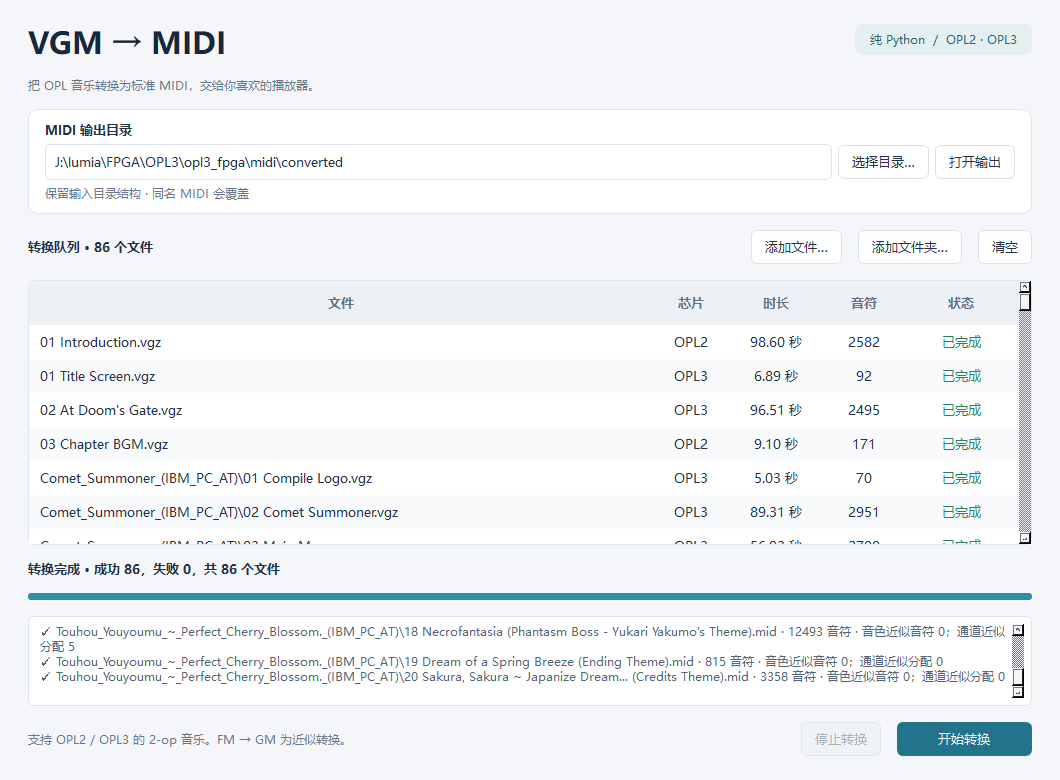
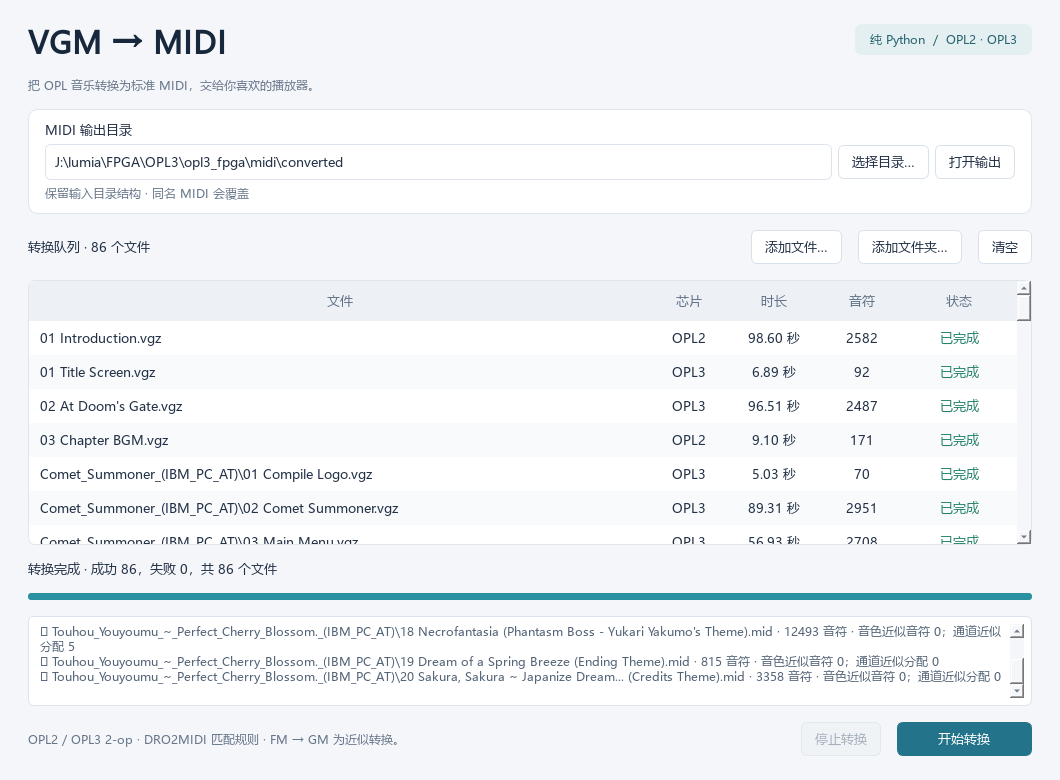
Use DRO2MIDI scoring and recover Doom instrument identities

diff --git a/tools/vgz2midi.py b/tools/vgz2midi.py
@@ -18,7 +18,6 @@ ROOT = Path(__file__).resolve().parents[1]
 SAMPLE_RATE = 44100
 MELODIC_CHANNELS = tuple(channel for channel in range(16) if channel != 9)
 OPERATOR_OFFSETS = (0, 1, 2, 8, 9, 10, 16, 17, 18)
-MULTIPLIERS = (0.5, 1, 2, 3, 4, 5, 6, 7, 8, 9, 10, 10, 12, 12, 15, 15)
 # Bass drum, snare, tom, cymbal and hi-hat in OPL rhythm mode.
 RHYTHM = ((6, 3, 35, 16), (7, 3, 38, 8), (8, 0, 45, 4),
           (8, 3, 49, 2), (7, 0, 42, 1))
@@ -51,24 +50,20 @@ def _patch_key(feedback, operators):
 # This small table is derived from the pinned, GPL-3.0-or-later libADLMIDI
 # instrument database; copyright and license are in third_party/libadlmidi.
 with Path(__file__).with_name("opl_gm_bank58.json").open(encoding="utf-8") as _file:
-    PATCHES = json.load(_file)["patches"]
+    _bank = json.load(_file)
+PATCHES = _bank["patches"]
 PATCH_KEYS = tuple(_patch_key(p["feedback"], p["operators"]) for p in PATCHES)
+SOURCE_PATCHES = {}
+for _patch in _bank["source_patches"]:
+    # Identical source patches can have several GM names; VGM loses that choice.
+    SOURCE_PATCHES.setdefault(_patch_key(_patch["feedback"], _patch["operators"]), _patch)
 
 
 def _patch_distance(a, b):
-    distance = 24 * ((a[0] ^ b[0]) & 1) + abs((a[0] >> 1) - (b[0] >> 1)) * 1.5
-    for offset in (1, 6):
-        x, y = a[offset], b[offset]
-        distance += 10 * abs(math.log2(MULTIPLIERS[x & 15] / MULTIPLIERS[y & 15]))
-        distance += 10 * bool((x ^ y) & 32) + 3 * bool((x ^ y) & 16)
-        distance += 2 * ((a[offset + 1] ^ b[offset + 1]) >> 6).bit_count()
-        for index, high_weight, low_weight in ((2, 1, 0.5), (3, 0.5, 1)):
-            distance += high_weight * abs((a[offset + index] >> 4) - (b[offset + index] >> 4))
-            distance += low_weight * abs((a[offset + index] & 15) - (b[offset + index] & 15))
-        distance += 12 * (a[offset + 4] != b[offset + 4])
-    if not a[0] & 1 and not b[0] & 1:
-        distance += abs((a[2] & 63) - (b[2] & 63)) / 4
-    return distance
+    # DRO2MIDI compareinstr(): normal/bass-drum register weights, after key normalization.
+    return sum(weight * abs(a[index] - b[index]) for index, weight in
+               ((0, 3), (1, 2), (2, 1), (3, 2), (4, 2), (5, 1),
+                (6, 2), (8, 2), (9, 2), (10, 1)))
 
 
 @lru_cache(maxsize=4096)
@@ -193,8 +188,10 @@ class OplToMidi:
             return
         operators = [self._operator(base, OPERATOR_OFFSETS[channel] + offset) for offset in (0, 3)]
         feedback = self.registers[base + 0xC0 + channel]
-        patch_index, approximate = _match_patch(_patch_key(feedback, operators))
-        patch = PATCHES[patch_index]
+        key = _patch_key(feedback, operators)
+        patch_index, approximate = _match_patch(key)
+        # Recover a known game's GM identity before approximating with bank 58.
+        patch = SOURCE_PATCHES.get(key, PATCHES[patch_index]) if approximate else PATCHES[patch_index]
         volume = round(127 * 10 ** (-0.75 * max(0, (operators[1][1] & 63)
                                                    - (patch["operators"][1][1] & 63)) / 40))
         pan = 64

diff --git a/tools/test_vgz2midi.py b/tools/test_vgz2midi.py
@@ -9,12 +9,13 @@ import unittest
 import mido
 
 from vgz2midi import (ConversionCancelled, MELODIC_CHANNELS, OplToMidi,
-                      OPERATOR_OFFSETS, PATCHES, PATCH_KEYS, _match_patch,
+                      OPERATOR_OFFSETS, PATCHES, PATCH_KEYS, _match_patch, _patch_distance,
                       convert_file, find_inputs)
 
 
-def setup_voice(synth, voice=0, program=0, fnum=580, block=4, pan=0x30):
-    patch = next(p for p in PATCHES if not p["drum"] and p["program"] == program)
+def setup_voice(synth, voice=0, program=0, fnum=580, block=4, pan=0x30, patch=None):
+    if patch is None:
+        patch = next(p for p in PATCHES if not p["drum"] and p["program"] == program)
     bank, channel = divmod(voice, 9)
     base = bank * 256
     synth.write(1, 32)
@@ -54,6 +55,36 @@ def check_balanced(test, track):
 
 
 class ConverterTests(unittest.TestCase):
+    def test_dro2midi_reference_score(self):
+        # Golden result from the upstream C++ compareinstr(), not this implementation.
+        a = (8, 1, 143, 242, 244, 0, 1, 0, 242, 247, 0)
+        b = (8, 16, 68, 248, 119, 2, 17, 0, 243, 6, 0)
+        self.assertEqual(_patch_distance(a, b), 885)
+        self.assertEqual(_patch_distance(b, a), 885)
+        self.assertEqual(_patch_distance(a, a), 0)
+        carrier_level = list(a)
+        carrier_level[7] = 192
+        self.assertEqual(_patch_distance(a, carrier_level), 0)
+
+    def test_doom_guitar_and_kick_identity(self):
+        synth = OplToMidi("OPL3", 14318180, "DOOM")
+        # Captured source signatures: overdriven guitar and bass drum, not GM piano/taiko.
+        setup_voice(synth, patch={"feedback": 2, "operators":
+                                [[0x10, 6, 0xF1, 0xFF, 0], [0x11, 0, 0xF0, 0xFF, 1]]})
+        synth.flush()
+        programs = [m.program for m in synth.track if m.type == "program_change"]
+        self.assertEqual(programs, [29])
+        self.assertFalse(any(m.type == "note_on" and m.channel == 9 for m in synth.track))
+        synth.tick = 4410
+        setup_voice(synth, voice=1, patch={"feedback": 6, "operators":
+                                         [[0, 0, 0xFA, 0x47, 0], [0, 0, 0xF9, 6, 0]]})
+        synth.flush()
+        self.assertTrue(any(m.type == "note_on" and m.channel == 9 and m.note == 36
+                            for m in synth.track))
+        synth.release(0)
+        synth.release(1)
+        check_balanced(self, synth.track)
+
     def test_bank58_patch_lookup(self):
         for index, key in enumerate(PATCH_KEYS):
             matched, approximate = _match_patch(key)

diff --git a/tools/vgz2midi_gui.py b/tools/vgz2midi_gui.py
@@ -154,7 +154,7 @@ class ConverterWindow(QMainWindow):
         layout.addWidget(self.log)
 
         footer = QHBoxLayout()
-        note = QLabel("支持 OPL2 / OPL3 的 2-op 音乐。FM → GM 为近似转换。")
+        note = QLabel("OPL2 / OPL3 2-op · DRO2MIDI 匹配规则 · FM → GM 为近似转换。")
         note.setObjectName("muted")
         note.setWordWrap(True)
         footer.addWidget(note, 1)
